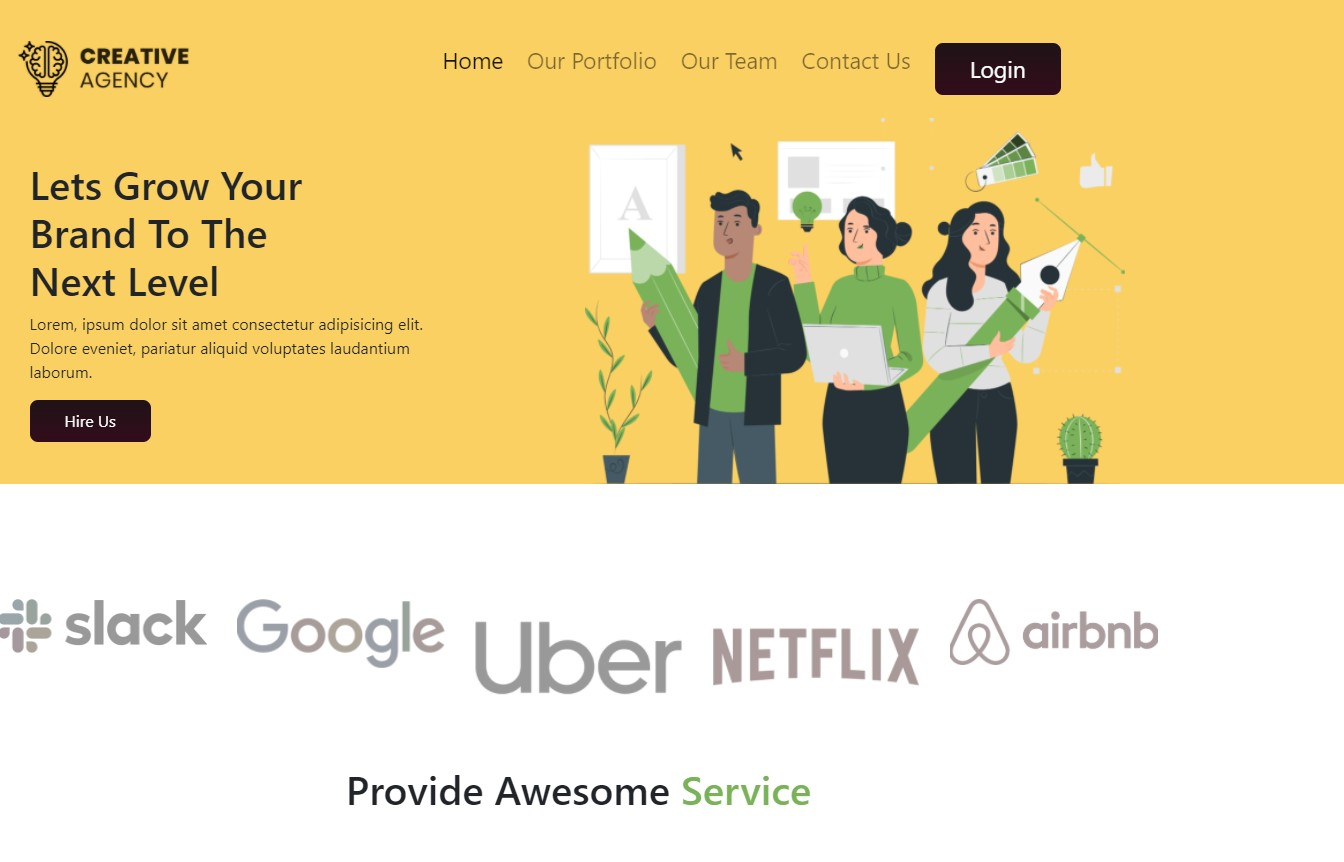
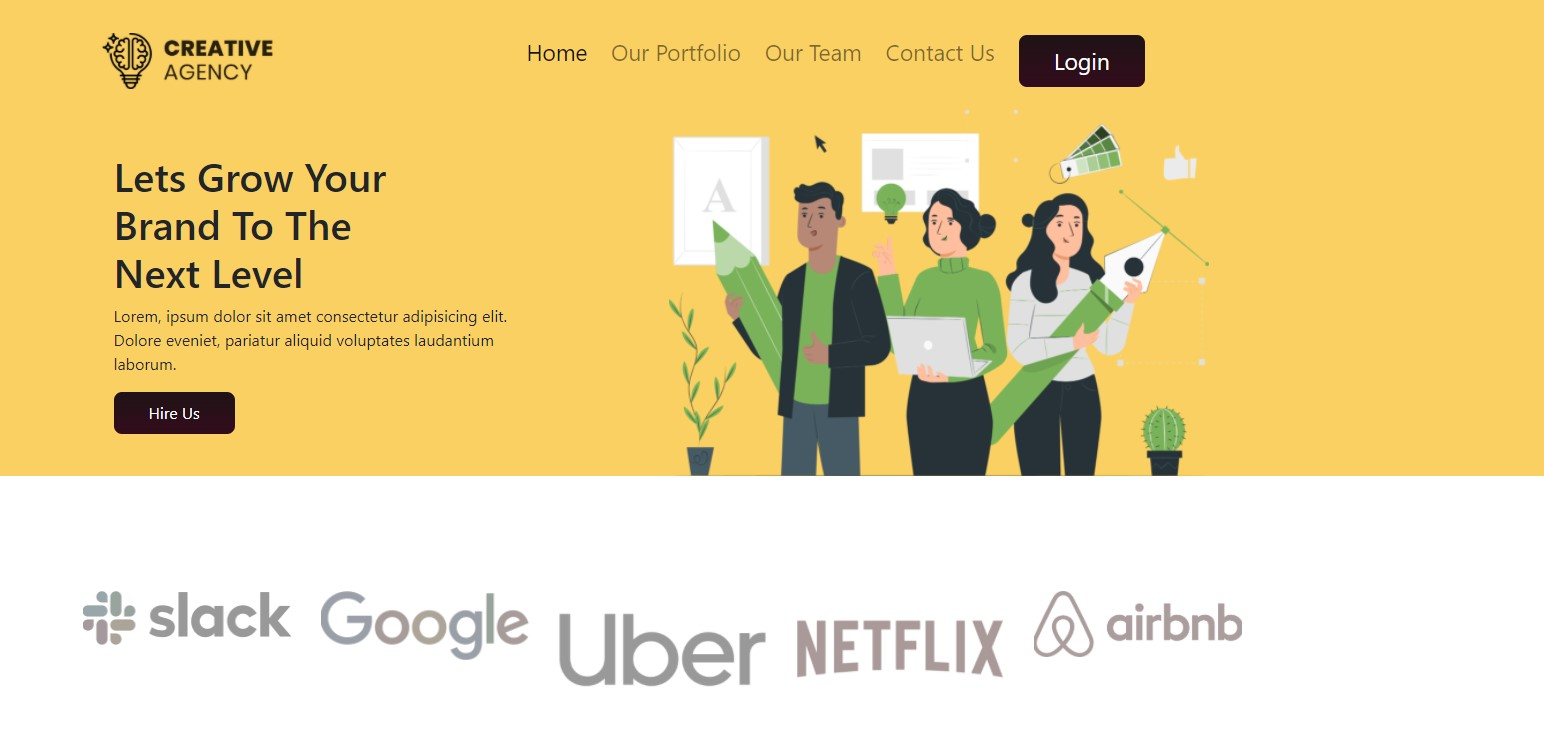
readme updated

diff --git a/README.md b/README.md
@@ -23,7 +23,7 @@ On the admin side, the admin accepts the client order and then the admin can als
 
 
 
-![s1](https://user-images.githubusercontent.com/39863835/97058172-df503300-15ae-11eb-8c0f-79cacbc45116.jpg)
+![s1](https://user-images.githubusercontent.com/39863835/97079508-46550280-1616-11eb-90a2-f3e1c47b804e.jpg)
 
 
 ![s2](https://user-images.githubusercontent.com/39863835/97079458-de062100-1615-11eb-869b-b2528af40332.jpg)
